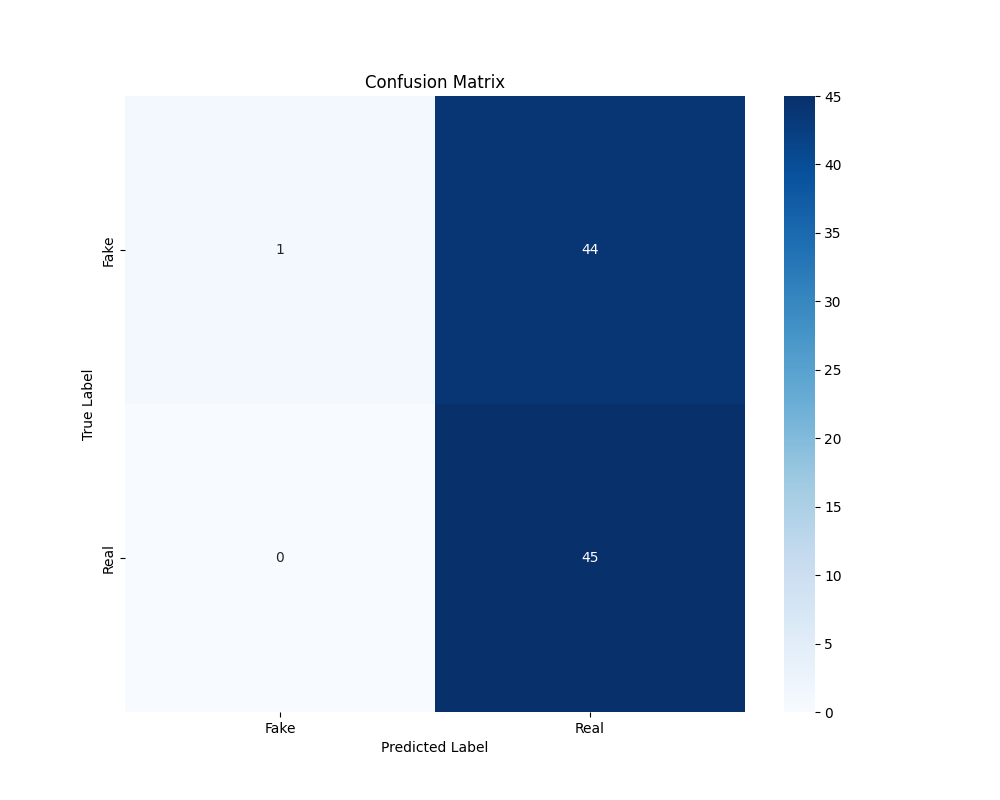
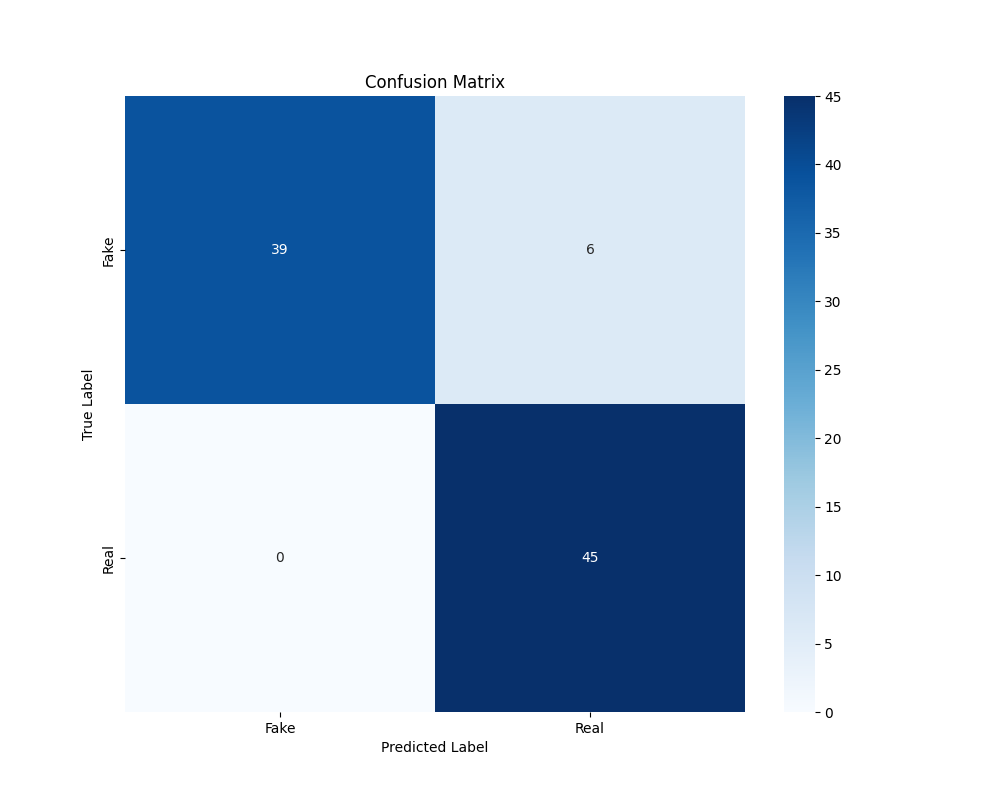
update evaluation matrix & README.md

Changed region(s): [[0.124, 0.0938, 0.744, 0.5312]]

diff --git a/evaluate.py b/evaluate.py
@@ -8,38 +8,42 @@ import seaborn as sns
 from datetime import datetime
 from main import LivenessDetection
 
+
 class DatasetEvaluator:
-    def __init__(self, liveness_detector, dataset_path):
+    def __init__(self, liveness_detector, dataset_path, confidence_threshold=0.6):
         """
         Initialize the evaluator.
 
         Args:
             liveness_detector: Instance of your LivenessDetection class.
             dataset_path: Path to the test dataset folder with 'Real' and 'Fake' subfolders.
+            confidence_threshold: Threshold for classifying images as 'Real'.
         """
         self.liveness_detector = liveness_detector
         self.dataset_path = dataset_path
+        self.confidence_threshold = confidence_threshold
         self.ground_truth = []
         self.predictions = []
         self.file_paths = []  # Store file paths for failed predictions analysis
-        
+        self.confidences = []  # Store confidence scores
+
     def evaluate(self):
         """
         Evaluate the liveness detection algorithm on the dataset.
         """
         print("Starting evaluation...")
-        
-        for label in ["Real", "Fake"]:  # Updated folder names to match your structure
+
+        for label in ["Real", "Fake"]:
             folder_path = os.path.join(self.dataset_path, label)
             if not os.path.exists(folder_path):
                 print(f"Warning: Folder not found - {folder_path}")
                 continue
-                
+
             print(f"\nProcessing {label} images...")
             for filename in os.listdir(folder_path):
                 file_path = os.path.join(folder_path, filename)
                 print(f"Processing: {filename}")
-                
+
                 image = cv2.imread(file_path)
                 if image is None:
                     print(f"Could not read image {file_path}")
@@ -49,14 +53,19 @@ class DatasetEvaluator:
                     # Process image through the liveness detection pipeline
                     results = self.liveness_detector.analyze_frame(image)
 
-                    # Get the prediction (label with the highest score)
                     if len(results) > 0:
                         _, prediction, confidence = results[0]
+                        
+                        # Apply confidence threshold
+                        if prediction == "Real" and confidence < self.confidence_threshold:
+                            prediction = "Fake"  # Reclassify as 'Fake' if confidence is low
+                        
                         self.predictions.append(prediction)
+                        self.confidences.append(confidence)
                     else:
-                        # If no face detected, consider it as a 'Fake'
                         print(f"No face detected in {filename}, marking as Fake")
                         self.predictions.append("Fake")
+                        self.confidences.append(0.0)
 
                     # Store the ground truth and file path
                     self.ground_truth.append(label)
@@ -68,7 +77,7 @@ class DatasetEvaluator:
 
         # Calculate and display metrics
         self._calculate_metrics()
-        
+
     def plot_confusion_matrix(self):
         """
         Plot and save confusion matrix as a heatmap.
@@ -76,12 +85,12 @@ class DatasetEvaluator:
         cm = confusion_matrix(self.ground_truth, self.predictions)
         plt.figure(figsize=(10, 8))
         sns.heatmap(cm, annot=True, fmt='d', cmap='Blues',
-                   xticklabels=['Fake', 'Real'],
-                   yticklabels=['Fake', 'Real'])
+                    xticklabels=['Fake', 'Real'],
+                    yticklabels=['Fake', 'Real'])
         plt.title('Confusion Matrix')
         plt.ylabel('True Label')
         plt.xlabel('Predicted Label')
-        
+
         # Save the plot
         plt.savefig('confusion_matrix.png')
         plt.close()
@@ -91,15 +100,36 @@ class DatasetEvaluator:
         Analyze and log failed predictions.
         """
         failed_cases = []
-        for gt, pred, file_path in zip(self.ground_truth, self.predictions, self.file_paths):
+        for gt, pred, confidence, file_path in zip(self.ground_truth, self.predictions, self.confidences, self.file_paths):
             if gt != pred:
                 failed_cases.append({
                     'file': os.path.basename(file_path),
                     'true_label': gt,
-                    'predicted': pred
+                    'predicted': pred,
+                    'confidence': confidence
                 })
-        
+
+                # Save misclassified images for further analysis
+                self._save_failed_image(file_path, pred, gt)
+
         return failed_cases
+
+    def _save_failed_image(self, file_path, predicted_label, true_label):
+        """
+        Save misclassified images to a separate folder for debugging.
+        """
+        failed_dir = "failed_cases"
+        os.makedirs(failed_dir, exist_ok=True)
+
+        # Create subfolder for each true label
+        subfolder = os.path.join(failed_dir, f"{true_label}_as_{predicted_label}")
+        os.makedirs(subfolder, exist_ok=True)
+
+        # Save the image
+        filename = os.path.basename(file_path)
+        save_path = os.path.join(subfolder, filename)
+        image = cv2.imread(file_path)
+        cv2.imwrite(save_path, image)
 
     def _calculate_metrics(self):
         """
@@ -108,20 +138,20 @@ class DatasetEvaluator:
         # Create timestamp for the log file
         timestamp = datetime.now().strftime("%Y%m%d_%H%M%S")
         log_filename = f"evaluation_metrics_{timestamp}.txt"
-        
+
         # Calculate metrics
         accuracy = accuracy_score(self.ground_truth, self.predictions)
         precision = precision_score(self.ground_truth, self.predictions, pos_label='Real')
         recall = recall_score(self.ground_truth, self.predictions, pos_label='Real')
         f1 = f1_score(self.ground_truth, self.predictions, pos_label='Real')
-        
+
         # Generate classification report
-        class_report = classification_report(self.ground_truth, self.predictions, 
-                                          target_names=["Fake", "Real"])
-        
+        class_report = classification_report(self.ground_truth, self.predictions,
+                                             target_names=["Fake", "Real"])
+
         # Analyze failed cases
         failed_cases = self.analyze_failures()
-        
+
         # Create detailed log content
         log_content = [
             "=== Liveness Detection Evaluation Results ===",
@@ -139,19 +169,20 @@ class DatasetEvaluator:
             f"Total Failed Predictions: {len(failed_cases)}",
             "\nDetailed Failed Cases:"
         ]
-        
+
         # Add failed cases details
         for case in failed_cases:
             log_content.append(
                 f"\nFile: {case['file']}"
                 f"\nTrue Label: {case['true_label']}"
                 f"\nPredicted: {case['predicted']}"
+                f"\nConfidence: {case['confidence']:.2f}"
             )
-        
+
         # Write to log file
         with open(log_filename, "w") as log_file:
             log_file.write("\n".join(log_content))
-        
+
         # Print summary to console
         print("\n=== Evaluation Results ===")
         print(f"Total Images Processed: {len(self.ground_truth)}")
@@ -160,23 +191,24 @@ class DatasetEvaluator:
         print(f"Recall: {recall:.4f}")
         print(f"F1 Score: {f1:.4f}")
         print(f"\nDetailed results saved to: {log_filename}")
-        
+
         # Generate confusion matrix plot
         self.plot_confusion_matrix()
 
+
 if __name__ == "__main__":
     # Path to your test dataset
-    dataset_path = "data/test"  # Updated path to match your structure
-    
+    dataset_path = "data/test"
+
     try:
         # Initialize liveness detection
         print("Initializing Liveness Detection system...")
         liveness_detector = LivenessDetection()
-        
+
         # Run the evaluation
         print("Starting evaluation process...")
-        evaluator = DatasetEvaluator(liveness_detector, dataset_path)
+        evaluator = DatasetEvaluator(liveness_detector, dataset_path, confidence_threshold=0.7)
         evaluator.evaluate()
-        
+
     except Exception as e:
         print(f"Error during evaluation: {str(e)}")

diff --git a/README.md b/README.md
@@ -1,5 +1,8 @@
 # Liveness Detection Algorithm
 
+## Evaluation Result
+![Confusion Matrix](https://github.com/revaldianggara/Liveness-Detection-Algorithm/blob/main/confusion_matrix.png)
+
 ## Demo
 ![Liveness Detection Demo](https://github.com/revaldianggara/Liveness-Detection-Algorithm/blob/main/demo2.gif)
 
@@ -25,27 +28,32 @@ git clone https://github.com/revaldianggara/Liveness-Detection-Algorithm.git
 cd Liveness-Detection-Algorithm
 ```
 
-2. pip install -r requirements.txt
+2.  install required package
+```bash
+pip install -r requirements.txt
+```
 
-3. run script for download dlib predicora and dataset nuaaa
+3. Run Data Pipeline: Download the required Dlib predictor and the NUAA Face Anti-Spoofing Dataset by running:
 ```bash
 python get_data_predictor.py 
 ```
 
-4. running
-for evaluate metrics accuracy for liveness detection algorithm
-
-## Run Code
+4. Evaluate the Algorithm: Run the evaluation script to test the algorithm's performance on the dataset:
 ```bash
-python main.py
+python evaluate.py 
+```
+
+5. Real-Time Camera Testing:
+```bash
+python main.py 
 ```
 
 ## Usage
-Press 'a' to enable Active Mode.
+   - Press 'a' to enable Active Mode.
 
-Press 'p' to enable Passive Mode.
+   - Press 'p' to enable Passive Mode.
 
-Press 'q'to quit the program.
+   - Press 'q'to quit the program.
 
 ## About Dataset
 Face Anti-Spoofing Dataset
@@ -54,7 +62,7 @@ X.Tan, Y.Li, J.Liu and L.Jiang.
 Face Liveness Detection from A Single Image with Sparse Low Rank Bilinear Discriminative Model,
 In: Proceedings of 11th European Conference on Computer Vision (ECCV'10), Crete, Greece. September 2010
 
-![Workflows](https://github.com/revaldianggara/Liveness-Detection-Algorithm/blob/main/dataset.png)
+![dataset-overview](https://github.com/revaldianggara/Liveness-Detection-Algorithm/blob/main/dataset.png)
 
 source: 
    1. https://www.kaggle.com/datasets/aleksandrpikul222/nuaaaa
